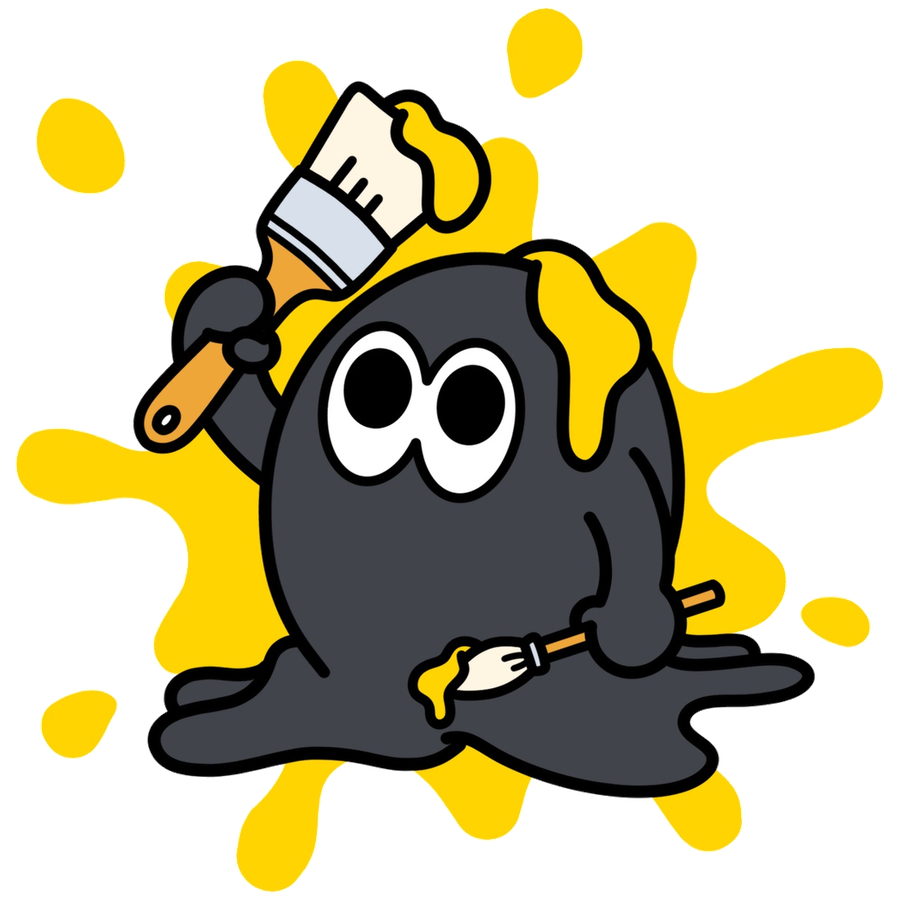
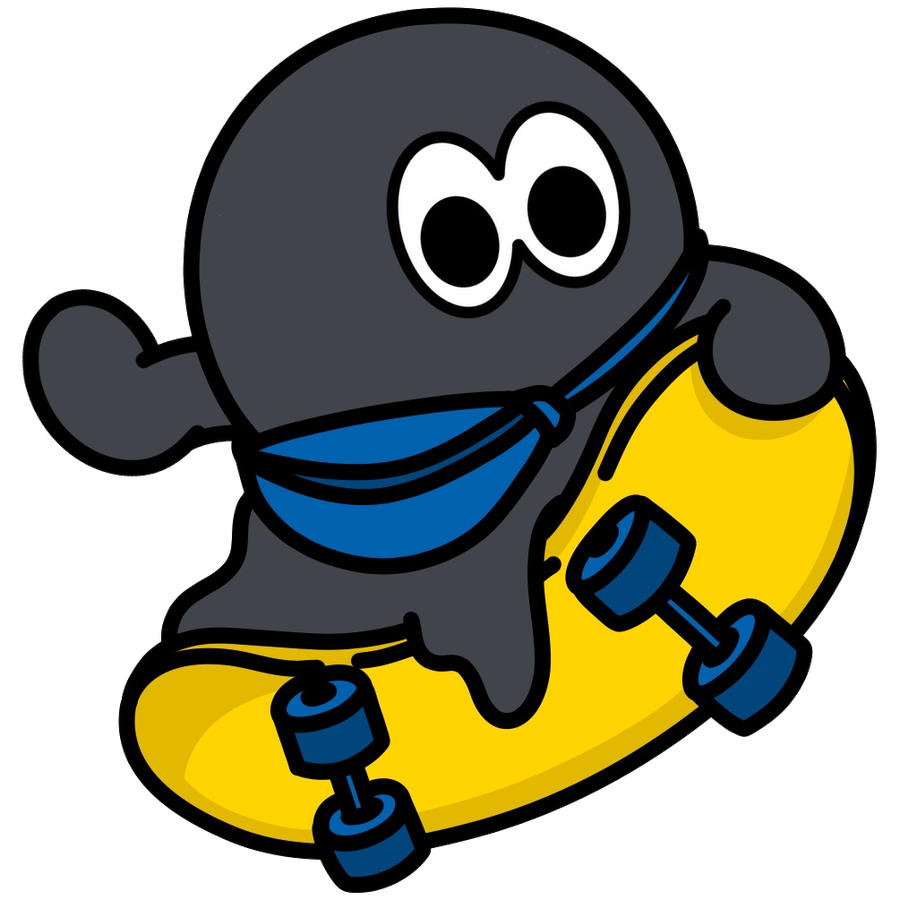
run-preview-k7f3: インクモ新絵柄を反映

diff --git a/run-preview-k7f3/run.html b/run-preview-k7f3/run.html
@@ -308,7 +308,7 @@ window.drEvent=function(name,params){ try{ if(window.gtag) window.gtag('event',n
     dogooooo:  { id:'DOGOOOOO',  name:'ドグー',         sprite:'art/run_dogooooo.png',  facing:'right', artist:'SAYoooooh',     enemySize:80,
                  trait:{ label:'★の飛行が長い（+5秒）', fly:5 }, like:'g9487847a10e8',
                  shop:'https://charamarl.com/characters/dogooooo.html?utm_source=charamarl_run', goods:'https://charamarl.com/img/products_t/dogooooo_pink.png' },
-    inkumo:    { id:'INKUMO',    name:'インクモ',       sprite:'art/run_inkumo.png',    facing:'left',  artist:"Ink'z Monster", enemySize:82,
+    inkumo:    { id:'INKUMO',    name:'インクモ',       sprite:'art/run_inkumo.png?v=2', facing:'right', artist:"Ink'z Monster", enemySize:82,
                  trait:{ label:'★が近くに来る（取りやすい）', starY:30 }, like:'gf25715341b4f',
                  shop:'https://charamarl.com/characters/inkumo.html?utm_source=charamarl_run',   goods:'https://charamarl.com/img/products_t/inkumo.png' },
     danna:     { id:'DANNA',     name:'だんな',         sprite:'art/run_danna.png',     facing:'right', artist:'赤猫かるま',     enemySize:80,
